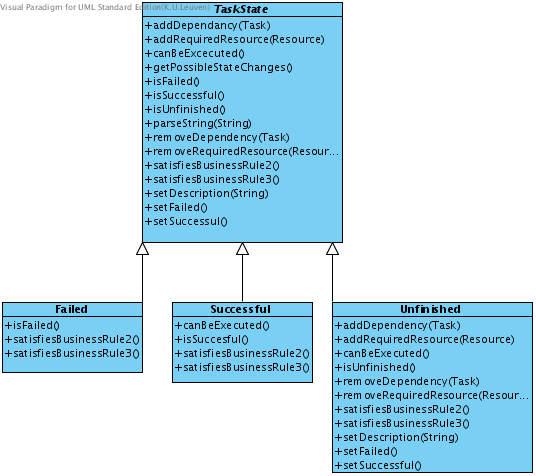
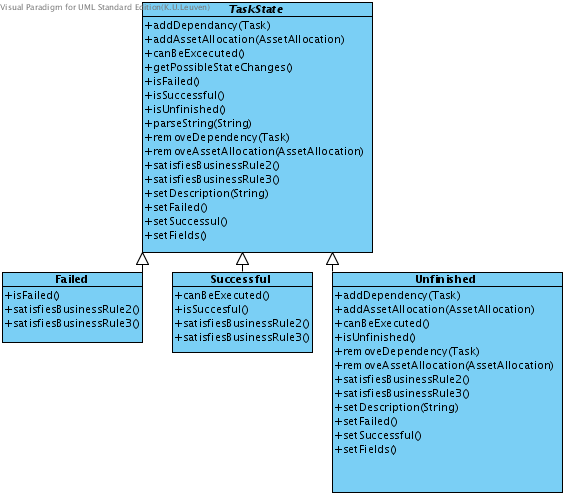
Final report

Changed region(s): [[0.0, 0.0, 1.0, 1.0]]

diff --git a/Java/report/report.tex b/Java/report/report.tex
@@ -388,9 +388,18 @@ Class diagrams of different subsystems are included in the appendix in the end o
 				The concept of a reservation has also changed from the previous iteration. Previously, a task would have required a specific resource. A reservation was a binding between a resource and a user. To check availability the task had to give the owner along to the resource, so it could check whether said user had a reservation at the right time. In the new iteration reservation forms a binding between a task and a resource, with the resource no longer directly required by a task, but instead indirectly through TaskTypeConstraints as mentioned later. While updating the system to match these changed requirements, changes had to be made throughout the model. This may hint at high coupling in our previous design, although changes to a fundamental concept in the domain model are expected to have a rather vigorous impact on the model. The implementation of Reservation would be similar to that of Invitation, with a TaskReservationManager on the task side. On the resource side however we opted out of a dedicated manager as resource has little functionality beyond maintaining it's reservations so we kept it in Resource itself. Use of a dedicated manager would have provided congruence to User, but was not perceived as important. 
 			
 			\subsubsection{AssetAllocation}
-				Both the reservation/invitation as well as the user/resource concept showed strong similarities regarding task requirements and User/ResourceType (see later), so we looked into unifying them into a generalized hierarchy. UserType and ResourceType have little functional differentiation so we can generalize them into AssetType. User and Resource both share the aspect that their AssetType is required for a task and that they can be allocated to satisfy these requirements. Invitation and Reservation both allocate an asset to a task, so we can generalize them into AssetAllocation.\textbf{diagram}
+			Both the reservation/invitation as well as the user/resource concept showed strong similarities regarding task requirements and User/ResourceType (see later), so we looked into unifying them into a generalized hierarchy. UserType and ResourceType have little functional differentiation so we can generalize them into AssetType. User and Resource both share the aspect that their AssetType is required for a task and that they can be allocated to satisfy these requirements. Invitation and Reservation both allocate an asset to a task, so we can generalize them into AssetAllocation.
+				
+
+				\begin{figure}
+			\includegraphics[scale=0.5]{images/Asset.png}
+			\caption{Class diagram of the Asset System}
+						\label{asset}
+			\end{figure}
+				
 				
 				Even if there is an opportunity to unify the concepts, this by itself does not provide motivation to do so unless there are practical benefits to it. The main practical benefit is that a task is not required to distinguish between reservations and invitations. Instead of using the TaskInvitationManager mentioned above and making a similar TaskReservationManager we can use a generalized TaskAssetManager which works with AssetAllocations. Furthermore, the TaskTypeConstraints also don't have to distinguish between the constraints for UserTypes or ResourceTypes. In the theme XML (see Custom Themes and Initialization), the TaskTypeConstraints are specified similarly without distinction between User- and ResourceType. This promotes code reuse and may allow new kinds of asset allocations or new kinds of assets to be added to the model later, requiring little additional code, but this will be discussed in more detail later.
+
 				
 				\begin{table}
 					\begin{tabular}{|p{4cm}|p{4cm}|p{4cm}|}
@@ -463,6 +472,12 @@ Class diagrams of different subsystems are included in the appendix in the end o
 			\includegraphics[scale=0.5]{images/checkConstraints().jpg}
 			\caption{Sequence diagram for TaskType.checkConstraints()}
 						\label{checkConstraints}
+			\end{figure}
+			
+			\begin{figure}
+			\includegraphics[scale=0.3]{images/canBeExecuted.png}
+			\caption{Sequence diagram for Task::canBeExecuted()}
+						\label{canBeExecuted}
 			\end{figure}
 			
 			As mentioned, we use the TaskType class to check the constraints. In turn, it needs to access the Task argument it receives to check whether enough Assets are available for the constraint to be satisfied. A sequence diagram indicating the flow of events is given in figure \ref{checkConstraints}. Alternatively, we could have checked for the constraints in the TaskAssetManager, but then this class needed to be aware of constraints. We summarized advantages and disadvantages of checking constraints in the TaskAssetManager or in the TaskType in table \ref{TaskType Tam}.
@@ -622,7 +637,7 @@ Class diagrams of different subsystems are included in the appendix in the end o
 			
 			Most of the work is done by now. The parser only needs to set all the tasks to their defined state in the XML data file. 
 
-			Because the TaskState transition rules are in effect when setting the states during parsing, the system time has to be set properly to allow the TaskState to be set, more particularly when state should be set successful. To do this Task has a methode \emph{getEaliestExecTime()} which, when the Task has the allocations to be executed succesfully, return the earliest time the Task can be set succesful, provide the dependencies are succesful aswell. It does this by first getting the earliestExecTime() of the dependencies, getting the earliestExecTime from the asset allocations, which returns the earliest time enough assets are allocated, and taking the latest of all of them. In the parser the tasks are sorted according to this. Then they are iterated, whenever the inteded state is succesful, the system time is set to the time from \emph{getEarliestExecTime()} and set to the proper state. The advantage of this system is that it should prevent invalid XML files from being parsed, making sure the system starts out in a consistent state. Downside  is that this method is nested deep in the model causing strong binding. The method actually bears strong resemblance to \emph{canBeExecuted()}, so it would be posible to implement \emph{canBeExecuted()} through this method, increasing code reuse, but this method support on the simple constraints and allocations, so in future this method could be imposible to implement, forcing us to redo \emph{canBeExecuted()}. Possible solutions in the future if this method fails is to make a fourth state only used and accesible from the parser, which removes the requirement checking. This would allow any valid XML to be parsed but wouldn't detect invalid XML files.\textbf{Seq Diag}
+			Because the TaskState transition rules are in effect when setting the states during parsing, the system time has to be set properly to allow the TaskState to be set, more particularly when state should be set successful. To do this Task has a methode \emph{getEaliestExecTime()} which, when the Task has the allocations to be executed succesfully, return the earliest time the Task can be set succesful, provide the dependencies are succesful aswell. It does this by first getting the earliestExecTime() of the dependencies, getting the earliestExecTime from the asset allocations, which returns the earliest time enough assets are allocated, and taking the latest of all of them. In the parser the tasks are sorted according to this. Then they are iterated, whenever the inteded state is succesful, the system time is set to the time from \emph{getEarliestExecTime()} and set to the proper state. The advantage of this system is that it should prevent invalid XML files from being parsed, making sure the system starts out in a consistent state. Downside  is that this method is nested deep in the model causing strong binding. The method actually bears strong resemblance to \emph{canBeExecuted()}, so it would be posible to implement \emph{canBeExecuted()} through this method, increasing code reuse, but this method support on the simple constraints and allocations, so in future this method could be imposible to implement, forcing us to redo \emph{canBeExecuted()}. Possible solutions in the future if this method fails is to make a fourth state only used and accesible from the parser, which removes the requirement checking. This would allow any valid XML to be parsed but wouldn't detect invalid XML files.
 			
 			The only thing left to do now, is parse the system time and set it in the system's clock. The data parser will then return the list of parsed users to the controller, which in its turn passes it to the GUI. The GUI will check if the parsing succeeded and will start printing the menu. If something went wrong during the parsing, it will print a message describing the error.
 			

diff --git a/Java/test/model/ResourceTest.java b/Java/test/model/ResourceTest.java
@@ -233,20 +233,20 @@ public class ResourceTest {
 	@Test(expected=BadAllocationTimingException.class)
 	public void reservation8() throws NotAvailableException, BadAllocationTimingException, AssetAllocatedException, IllegalStateCallException, AssetTypeNotRequiredException, AssetConstraintFullException {
 		
-		Reservation s1 = new Reservation(new GregorianCalendar(), 100, resource, task1);
+		new Reservation(new GregorianCalendar(), 100, resource, task1);
 		GregorianCalendar gr = new GregorianCalendar();
 		gr.add(GregorianCalendar.MINUTE, 95);
-		Reservation s2 = new Reservation(gr, 100, resource2, task1);
+		new Reservation(gr, 100, resource2, task1);
 		
 	}
 	
 	@Test
 	public void reservation9() throws NotAvailableException, BadAllocationTimingException, AssetAllocatedException, IllegalStateCallException, AssetTypeNotRequiredException, AssetConstraintFullException {
 		
-		Reservation s1 = new Reservation(new GregorianCalendar(), 100, resource, task1);
+		new Reservation(new GregorianCalendar(), 100, resource, task1);
 		GregorianCalendar gr = new GregorianCalendar();
 		gr.add(GregorianCalendar.MINUTE, 90);
-		Reservation s2 = new Reservation(gr, 100, resource2, task1);
+		new Reservation(gr, 100, resource2, task1);
 		
 	}
 	
